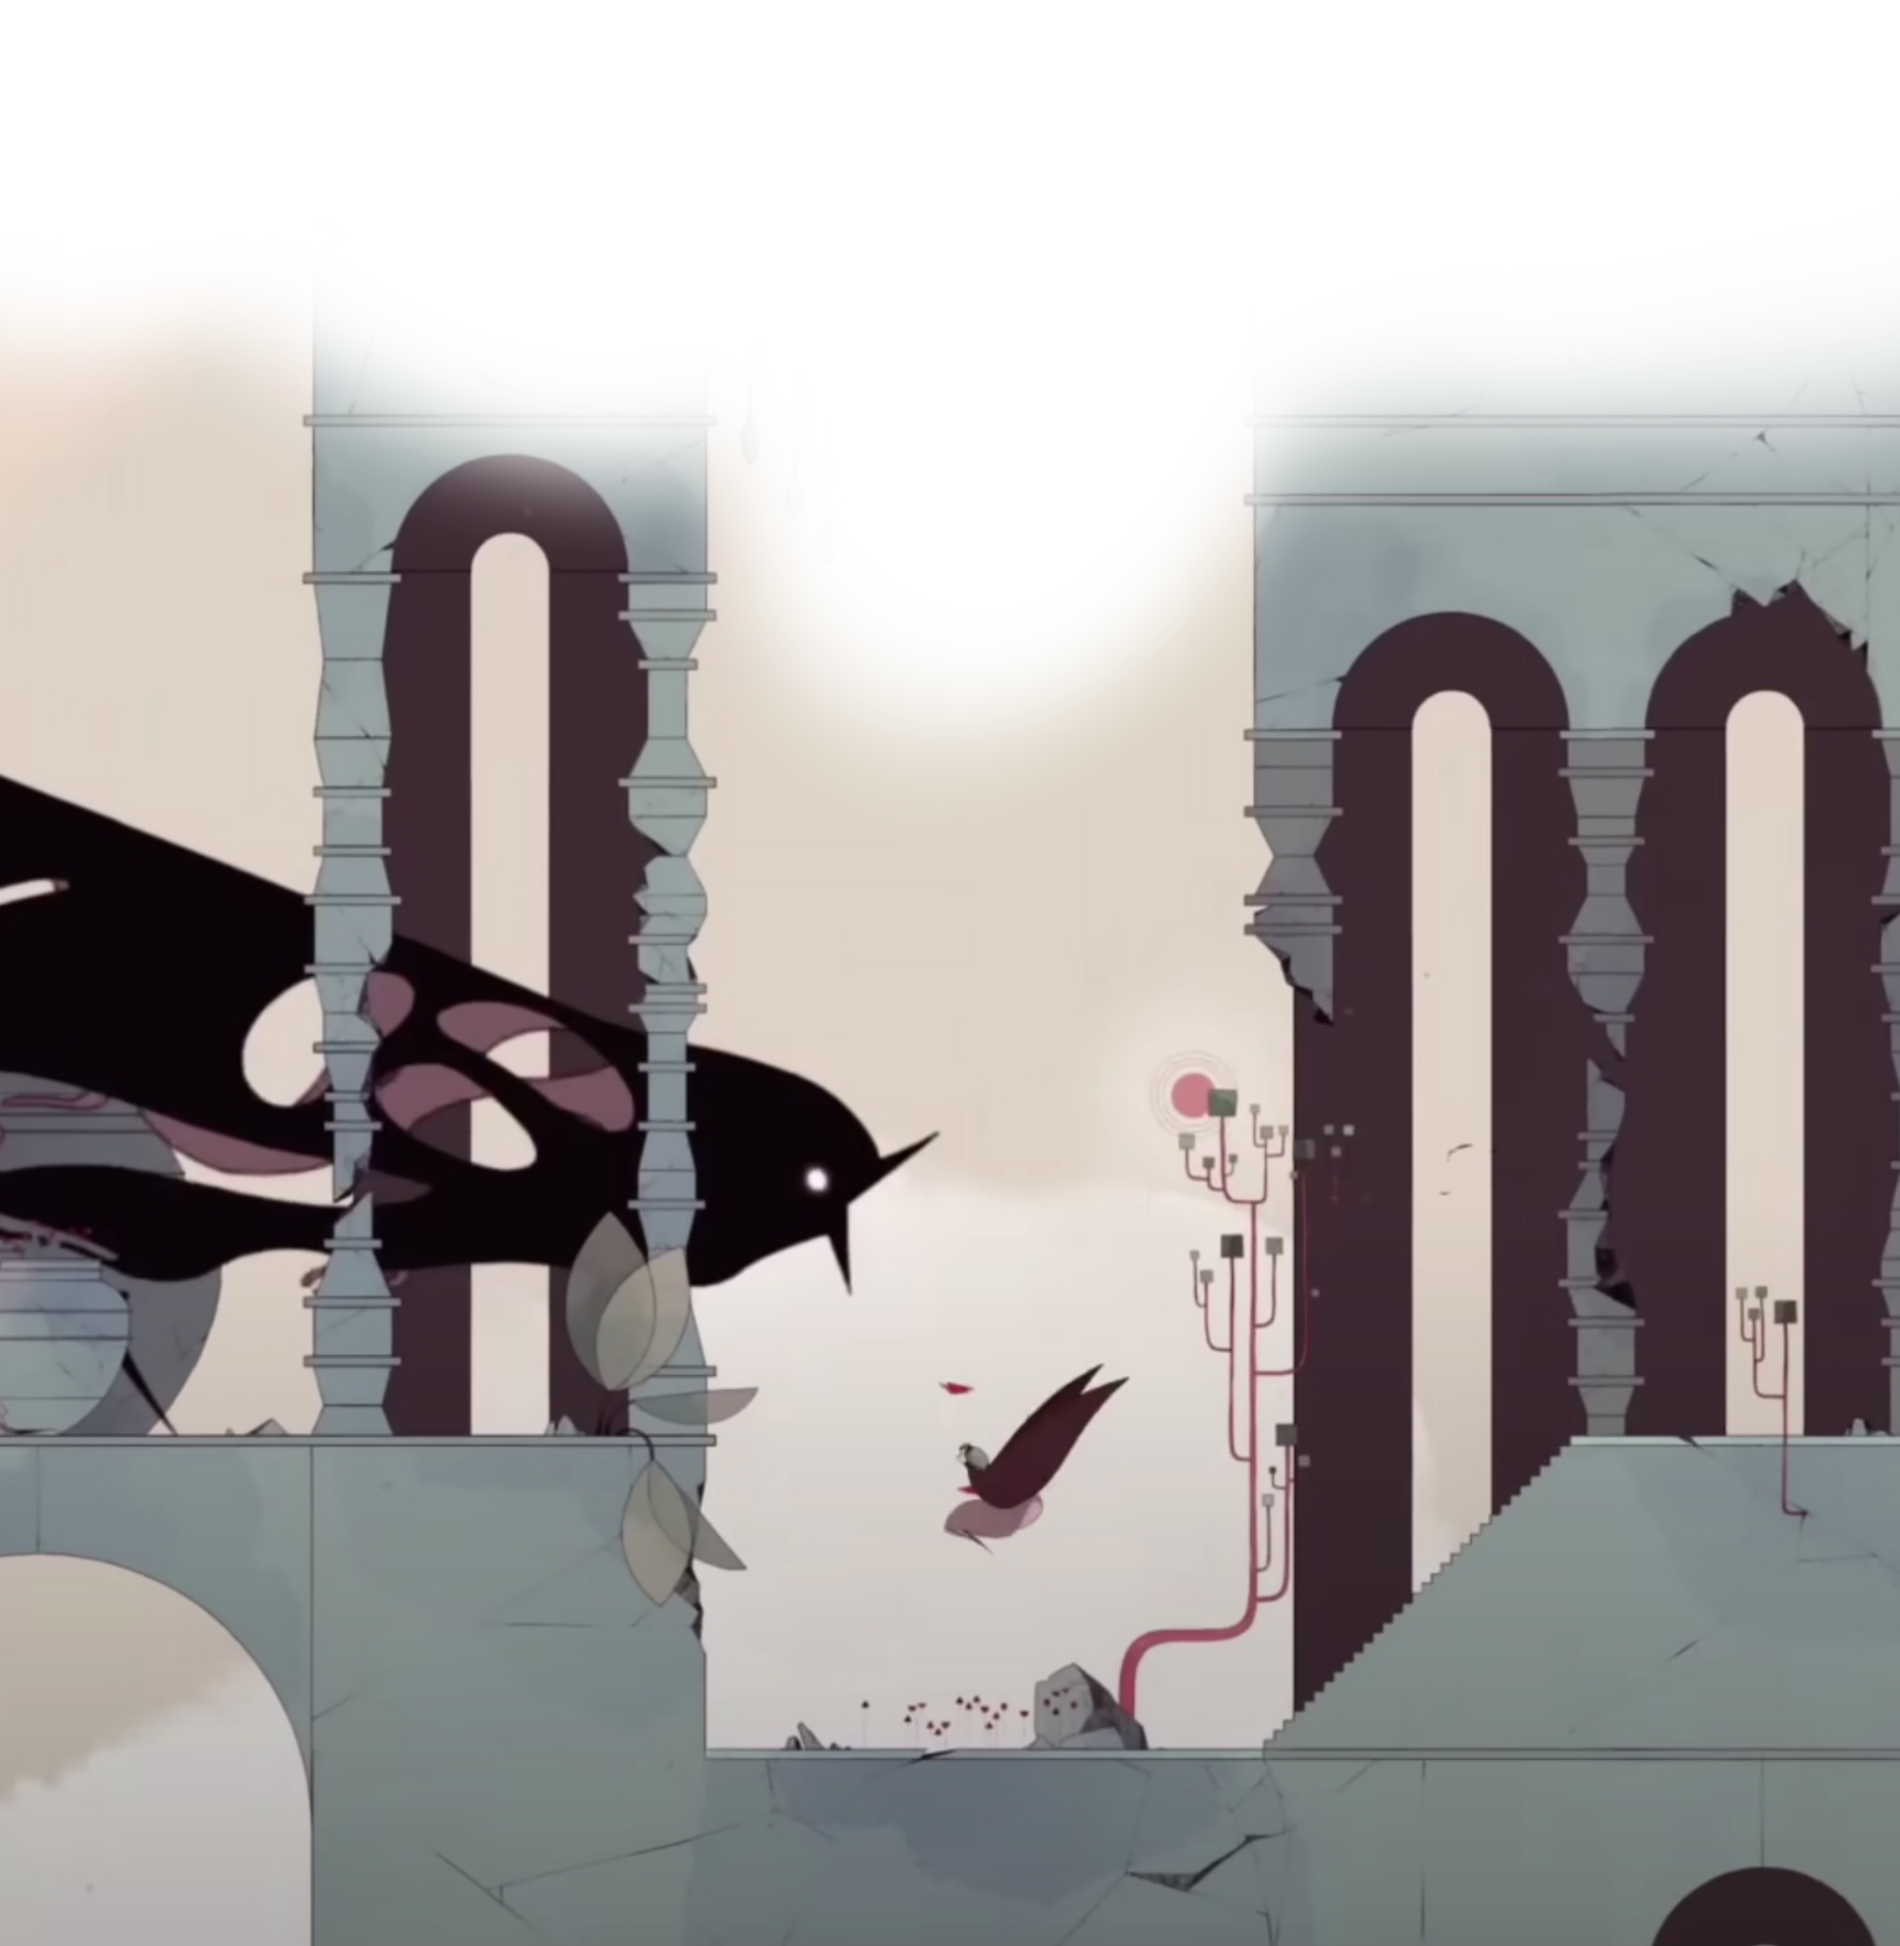
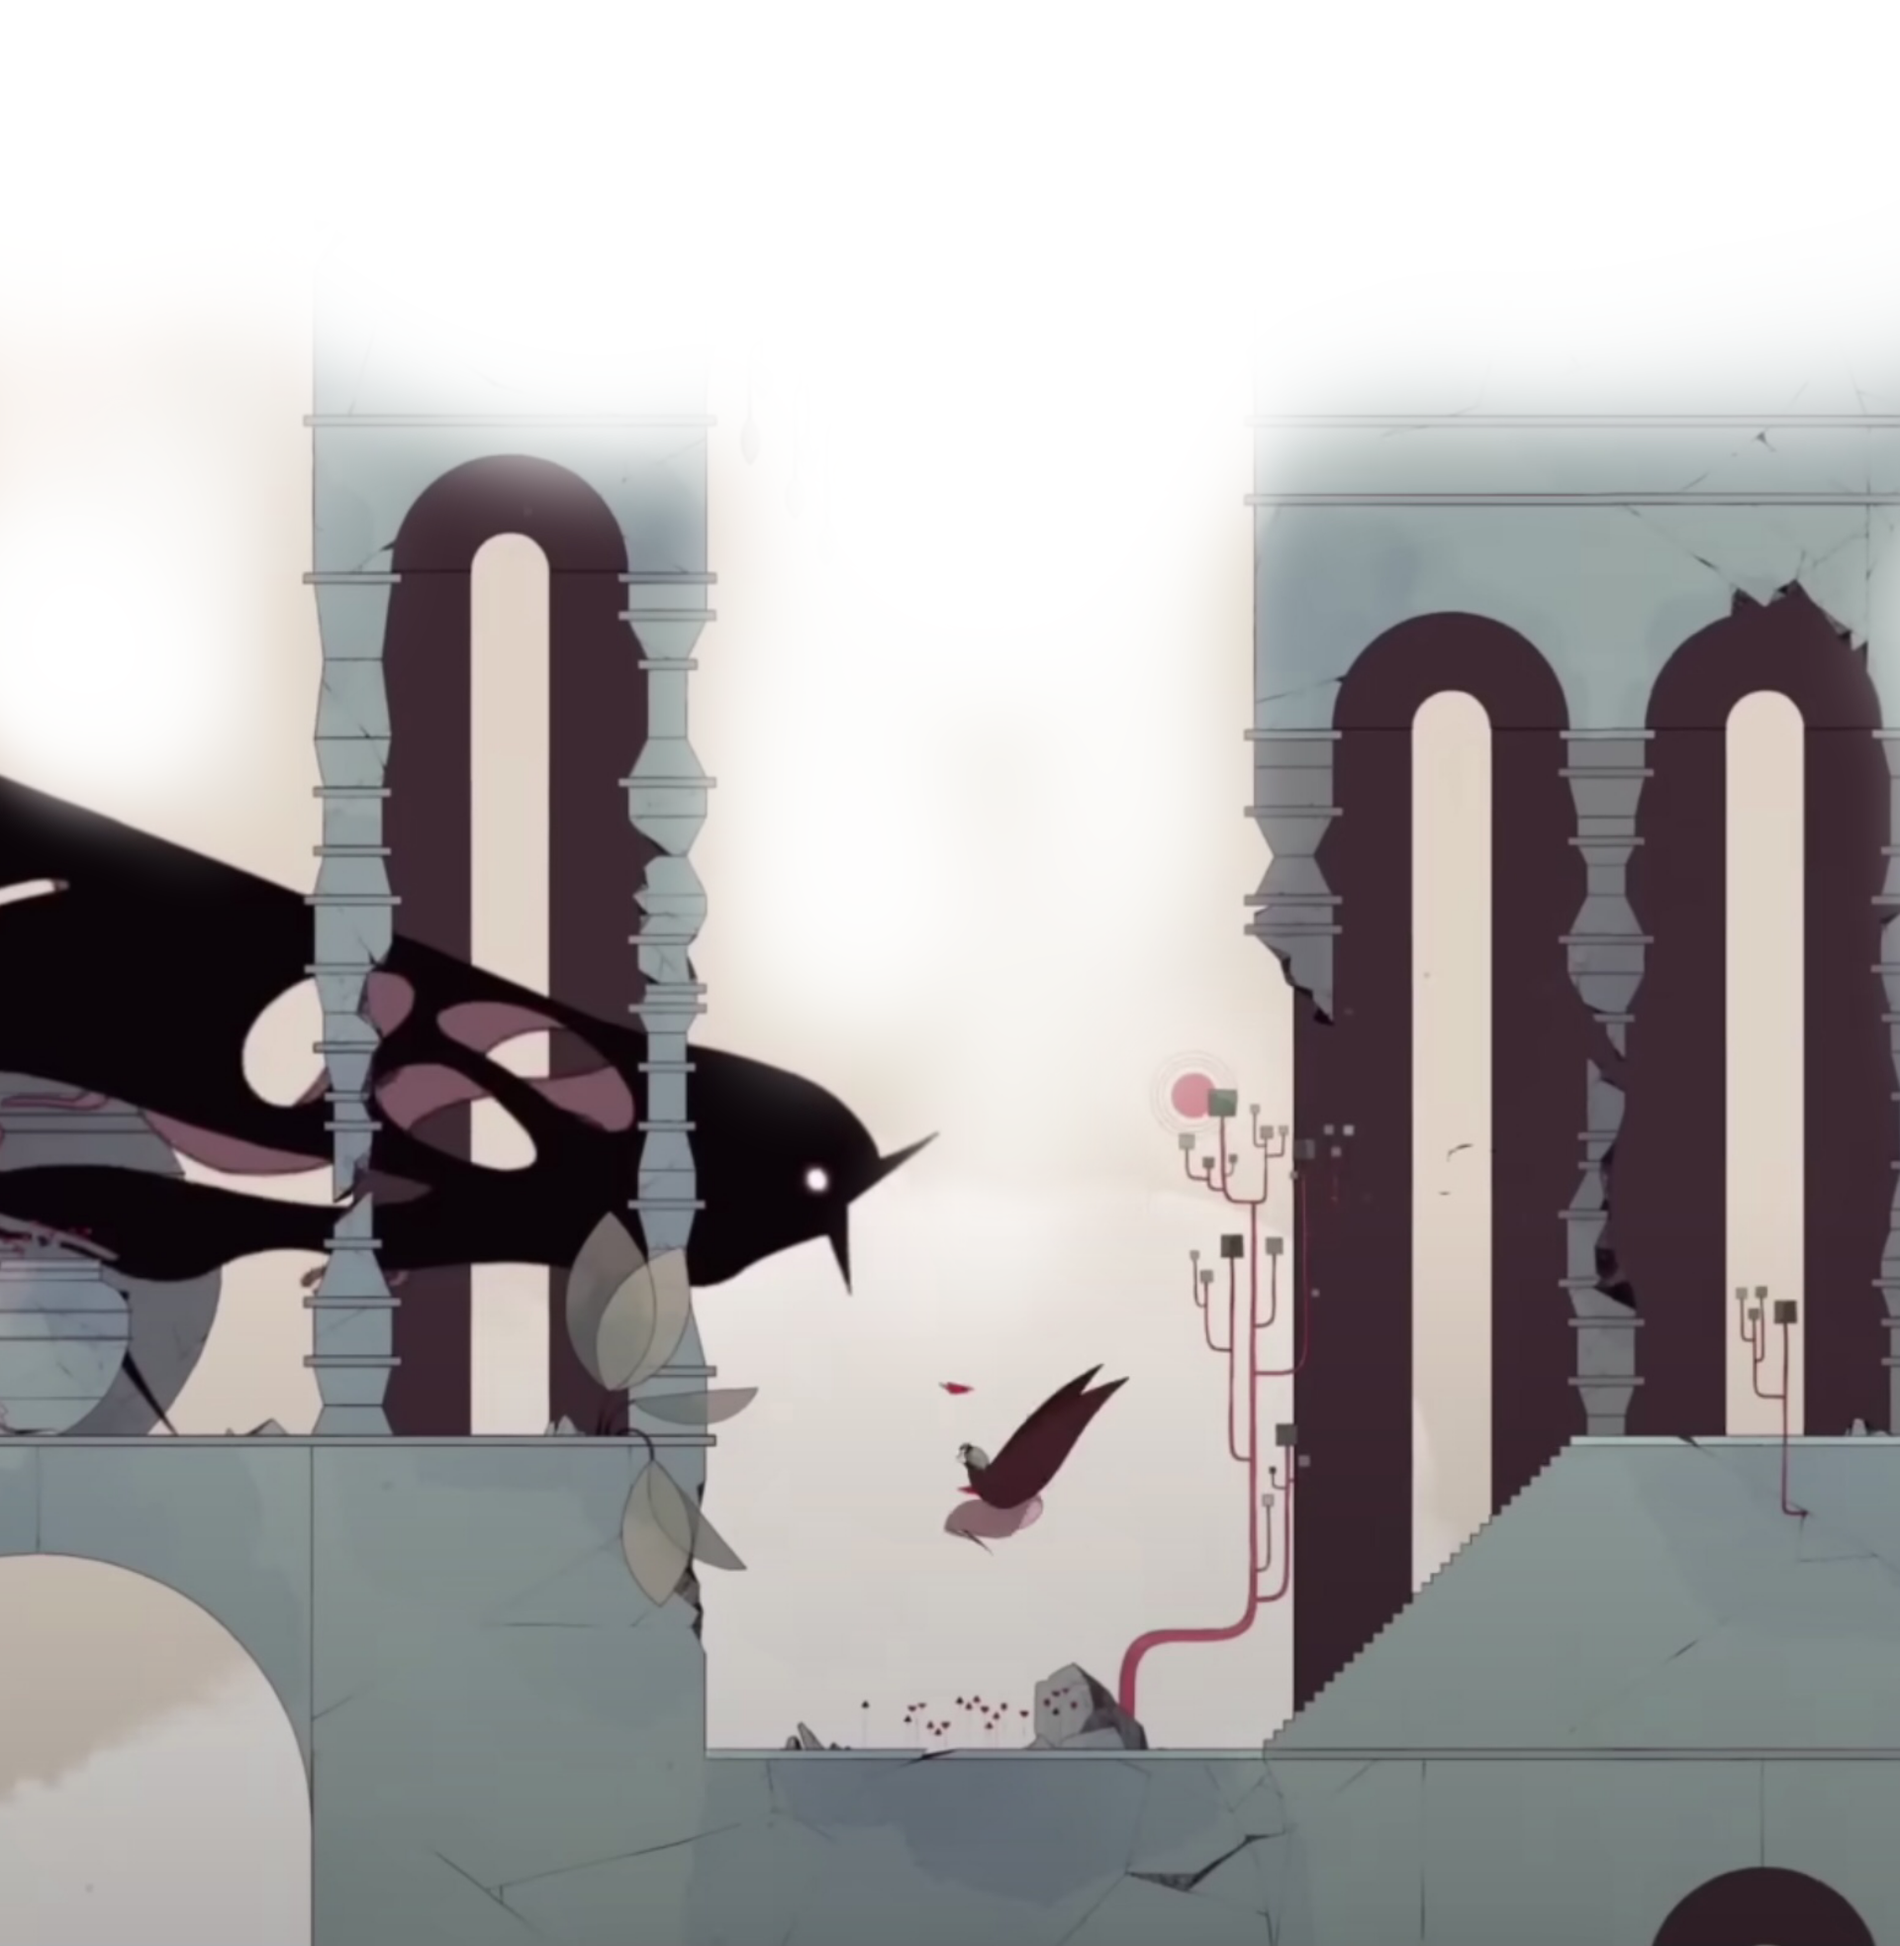
lined up the images and adjusted blend modes

Changed region(s): [[0.3438, 0.2792, 0.6562, 0.6205], [0.0, 0.1862, 0.1875, 0.4344], [0.9688, 0.2792, 1.0, 0.3723]]

diff --git a/style.css b/style.css
@@ -1,0 +1,174 @@
+@import url('https://fonts.googleapis.com/css2?family=Montserrat:wght@100&display=swap');
+@import url('https://fonts.googleapis.com/css2?family=Noto+Sans+JP:wght@100&display=swap');
+
+
+body, html{
+	box-sizing: border-box;
+	display: grid;
+	margin: 0;
+	padding: 0;
+	font-family: 'Montserrat', sans-serif;
+	font-size: 10vmin;
+	text-align: center;
+}
+
+#main-container{
+}
+
+#panel{
+	width: 60%;
+	margin-left: 20%;
+	margin-right: 20%;
+	display: grid;
+	grid-column-start: 2;
+    grid-template-rows: 0.75% 0.7% 0.8% 1.5% 2.2% .35% 0.82% 2.66% 1% 0% 3.77% 3.24% 0.5% 2.3% 0.97% 0.65% 0% 0.2% 0.45% 0.7% 1.13% 0.6% 2.1% 0.75% 2.5% 1.6% 3.5% 5.284% 3% 0.22% 1fr;
+}
+
+.panel-image{
+	position: relative;
+	width: 100%;
+}
+
+#img-one{
+	grid-row-start: 1;
+}
+
+#img-two{
+	mix-blend-mode: multiply;
+	grid-row-start: 2;
+}
+
+#img-three{
+	mix-blend-mode: multiply;
+	grid-row-start: 3;
+}
+
+#img-four{
+	mix-blend-mode: multiply;
+	grid-row-start: 4;
+}
+
+#img-five{
+	mix-blend-mode: multiply;
+	grid-row-start: 5;
+}
+
+#img-six{
+	grid-row-start: 6;
+}
+
+#img-seven{
+	grid-row-start: 7;
+}
+
+#img-eight{
+	mix-blend-mode: multiply;
+	grid-row-start: 8;
+}
+
+#img-nine{
+	mix-blend-mode: multiply;
+	grid-row-start: 9;
+}
+
+#img-ten{
+	mix-blend-mode: multiply;
+	grid-row-start: 10;
+}
+
+#img-eleven{
+	mix-blend-mode: multiply;
+	grid-row-start: 11;
+}
+
+#img-twelve{
+	mix-blend-mode: multiply;
+	grid-row-start: 12;
+}
+
+#img-thirteen{
+	mix-blend-mode: multiply;
+	grid-row-start: 13;
+}
+
+#img-fourteen{
+	mix-blend-mode: multiply;
+	grid-row-start: 14;
+}
+
+#img-fifteen{
+	grid-row-start: 17;
+}
+
+#img-sixteen{
+	mix-blend-mode: multiply;
+	grid-row-start: 16;
+}
+
+#img-seventeen{
+	mix-blend-mode: soft-light;
+	grid-row-start: 15;
+}
+
+#img-eighteen{
+	grid-row-start: 18;
+}
+
+#img-nineteen{
+	grid-row-start: 21;
+}
+
+#img-twenty{
+	mix-blend-mode: multiply;
+	grid-row-start: 22;
+}
+
+#img-twenty-one{
+	mix-blend-mode: multiply;
+	grid-row-start: 20;
+}
+
+#img-twenty-two{
+	mix-blend-mode: soft-light;
+	grid-row-start: 19;
+}
+
+#img-twenty-three{
+	mix-blend-mode: multiply;
+	grid-row-start: 23;
+}
+
+#img-twenty-four{
+	grid-row-start: 24;
+}
+
+#img-twenty-five{
+	grid-row-start: 25;
+}
+
+#img-twenty-six{
+	grid-row-start: 26;
+}
+
+#img-twenty-seven{
+	grid-row-start: 27;
+}
+
+#img-twenty-eight{
+	grid-row-start: 28;
+}
+
+#img-twenty-nine{
+	grid-row-start: 29;
+}
+
+#img-thirty{
+	grid-row-start: 30;
+}
+
+#img-thirty-one{
+	mix-blend-mode: multiply;
+	grid-row-start: 31;
+}
+
+

diff --git a/index.html b/index.html
@@ -7,6 +7,40 @@
 	<link rel="stylesheet" type="text/css" href="style.css">
 </head>
 <body>
-
+	<div id="main-container">
+		<div id="panel">
+			<img src="1.PNG" class="panel-image" id="img-one">
+			<img src="2.PNG" class="panel-image" id="img-two">
+			<img src="3.PNG" class="panel-image" id="img-three">
+			<img src="4.PNG " class="panel-image" id="img-four">
+			<img src="5.PNG" class="panel-image" id="img-five">
+			<img src="6.PNG" class="panel-image" id="img-six">
+			<img src="8.PNG" class="panel-image" id="img-eight">
+			<img src="7.PNG" class="panel-image" id="img-seven">
+			<img src="9.PNG" class="panel-image" id="img-nine">
+			<img src="10.PNG" class="panel-image" id="img-ten">
+			<img src="11.PNG" class="panel-image" id="img-eleven">
+			<img src="12.PNG" class="panel-image" id="img-twelve">
+			<img src="13.PNG" class="panel-image" id="img-thirteen">
+			<img src="14.PNG" class="panel-image" id="img-fourteen">
+			<img src="15.PNG" class="panel-image" id="img-fifteen">
+			<img src="16.PNG" class="panel-image" id="img-sixteen">
+			<img src="17.PNG" class="panel-image" id="img-seventeen">
+			<img src="18.PNG" class="panel-image" id="img-eighteen">
+			<img src="19.PNG" class="panel-image" id="img-nineteen">
+			<img src="20.PNG" class="panel-image" id="img-twenty">
+			<img src="21.PNG" class="panel-image" id="img-twenty-one">
+			<img src="22.PNG" class="panel-image" id="img-twenty-two">
+			<img src="23.PNG" class="panel-image" id="img-twenty-three">
+			<img src="24.PNG" class="panel-image" id="img-twenty-four">
+			<img src="25.PNG" class="panel-image" id="img-twenty-five">
+			<img src="26.PNG" class="panel-image" id="img-twenty-six">
+			<img src="27.PNG" class="panel-image" id="img-twenty-seven">
+			<img src="28.PNG" class="panel-image" id="img-twenty-eight">
+			<img src="29.PNG" class="panel-image" id="img-twenty-nine">
+			<img src="30.PNG" class="panel-image" id="img-thirty">
+			<img src="31.PNG" class="panel-image" id="img-thirty-one">
+		</div>
+	</div>
 </body>
 </html>
